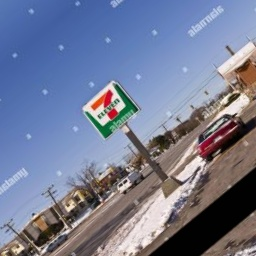
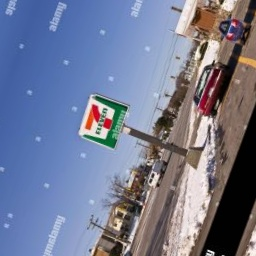
2nd Commit

diff --git a/mock.py b/mock.py
@@ -1,0 +1,119 @@
+import tkinter as tk
+from tkinter import filedialog
+import os
+import subprocess
+from functools import partial
+import cv2
+import albumentations as A
+from tqdm import tqdm
+
+
+def browse_button(input_entry):
+    filename = filedialog.askdirectory()
+    input_entry.delete(0, tk.END)
+    input_entry.insert(0, filename)
+
+
+def augment_images(input_images_dir, input_labels_dir, output_images_dir, output_labels_dir):
+    os.makedirs(output_images_dir, exist_ok=True)
+    os.makedirs(output_labels_dir, exist_ok=True)
+
+    transform = A.Compose([
+        A.Rotate(limit=90, interpolation=cv2.INTER_LINEAR, border_mode=cv2.BORDER_REFLECT, always_apply=True, p=1),
+    ], bbox_params=A.BboxParams(format='yolo', label_fields=['category'], min_visibility=1))
+
+    image_files = [f for f in os.listdir(input_images_dir) if f.endswith(('.jpg', '.jpeg', '.png'))]
+
+    count = 1
+    num_images_to_rotate = 1
+
+    for image_file in tqdm(image_files, desc="Processing Images"):
+        image_path = os.path.join(input_images_dir, image_file)
+        image = cv2.imread(image_path)
+        if image is None:
+            continue
+
+        image = cv2.cvtColor(image, cv2.COLOR_BGR2RGB)
+
+        label_file = os.path.join(input_labels_dir, image_file.replace('.jpg', '.txt'))
+        if not os.path.exists(label_file):
+            continue
+
+        with open(label_file, 'r') as f:
+            yolo_bbox = [float(coord) for coord in f.readline().strip().split()]
+
+        normalized_yolo_bbox = [
+            yolo_bbox[1],
+            yolo_bbox[2],
+            yolo_bbox[3],
+            yolo_bbox[4],
+        ]
+
+        data = {"image": image, "bboxes": [normalized_yolo_bbox], "category": [int(yolo_bbox[0])]}
+
+        for i in range(num_images_to_rotate):
+            transformed = transform(**data)
+
+            augmented_image_path = os.path.join(output_images_dir, f"{count}_augmented_{i}.jpg")
+            cv2.imwrite(augmented_image_path, cv2.cvtColor(transformed["image"], cv2.COLOR_RGB2BGR))
+
+            augmented_label_path = os.path.join(output_labels_dir, f"{count}_augmented_{i}.txt")
+            with open(augmented_label_path, 'w') as f:
+                final_yolo_bbox = [
+                    transformed["bboxes"][0][0],
+                    transformed["bboxes"][0][1],
+                    transformed["bboxes"][0][2],
+                    transformed["bboxes"][0][3],
+                ]
+                f.write(f"{data['category'][0]} {' '.join(map(str, final_yolo_bbox))}")
+
+        count += 1
+
+    print("Augmentation complete.")
+    subprocess.Popen(["python", "ui.py"])
+
+
+def start_augmentation():
+    input_images_dir = input_images_entry.get()
+    input_labels_dir = input_labels_entry.get()
+    output_images_dir = output_images_entry.get()
+    output_labels_dir = output_labels_entry.get()
+
+    augment_images(input_images_dir, input_labels_dir, output_images_dir, output_labels_dir)
+
+
+root = tk.Tk()
+root.title("Image Augmentation")
+
+input_images_label = tk.Label(root, text="Input Images Directory:")
+input_images_label.grid(row=0, column=0, sticky="W")
+input_images_entry = tk.Entry(root, width=50)
+input_images_entry.grid(row=0, column=1, padx=5, pady=5)
+input_images_button = tk.Button(root, text="Browse", command=lambda: browse_button(input_images_entry))
+input_images_button.grid(row=0, column=2)
+
+input_labels_label = tk.Label(root, text="Input Labels Directory:")
+input_labels_label.grid(row=1, column=0, sticky="W")
+input_labels_entry = tk.Entry(root, width=50)
+input_labels_entry.grid(row=1, column=1, padx=5, pady=5)
+input_labels_button = tk.Button(root, text="Browse", command=lambda: browse_button(input_labels_entry))
+input_labels_button.grid(row=1, column=2)
+
+output_images_label = tk.Label(root, text="Output Images Directory:")
+output_images_label.grid(row=2, column=0, sticky="W")
+output_images_entry = tk.Entry(root, width=50)
+output_images_entry.grid(row=2, column=1, padx=5, pady=5)
+output_images_button = tk.Button(root, text="Browse", command=lambda: browse_button(output_images_entry))
+output_images_button.grid(row=2, column=2)
+
+output_labels_label = tk.Label(root, text="Output Labels Directory:")
+output_labels_label.grid(row=3, column=0, sticky="W")
+output_labels_entry = tk.Entry(root, width=50)
+output_labels_entry.grid(row=3, column=1, padx=5, pady=5)
+output_labels_button = tk.Button(root, text="Browse", command=lambda: browse_button(output_labels_entry))
+output_labels_button.grid(row=3, column=2)
+
+start_button = tk.Button(root, text="Start Augmentation", command=start_augmentation)
+start_button.grid(row=4, column=1, pady=10)
+
+root.mainloop()

diff --git a/main.py b/main.py
@@ -3,16 +3,16 @@ import cv2
 import albumentations as A
 from tqdm import tqdm
 
-INPUT_IMAGES_DIR = "D:/project/input/images"
-INPUT_LABELS_DIR = "D:/project/input/labels"
-OUTPUT_IMAGES_DIR = "D:/project/output/images"
-OUTPUT_LABELS_DIR = "D:/project/output/labels"
+INPUT_IMAGES_DIR = "C:/Users/User/Documents/GitHub/New_augmentation/input/images"
+INPUT_LABELS_DIR = "C:/Users/User/Documents/GitHub/New_augmentation/input/labels"
+OUTPUT_IMAGES_DIR = "C:/Users/User/Documents/GitHub/New_augmentation/output/images"
+OUTPUT_LABELS_DIR = "C:/Users/User/Documents/GitHub/New_augmentation/output/labels"
 
 os.makedirs(OUTPUT_IMAGES_DIR, exist_ok=True)
 os.makedirs(OUTPUT_LABELS_DIR, exist_ok=True)
 
 transform = A.Compose([
-    A.Rotate(limit=[1,90], interpolation=cv2.INTER_LINEAR, border_mode=cv2.BORDER_REFLECT, always_apply=True, p=1),
+    A.Rotate(limit=90, interpolation=cv2.INTER_LINEAR, border_mode=cv2.BORDER_REFLECT, always_apply=True, p=1),
 ], bbox_params=A.BboxParams(format='yolo', label_fields=['category'], min_visibility=1))
 
 image_files = [f for f in os.listdir(INPUT_IMAGES_DIR) if f.endswith(('.jpg', '.jpeg', '.png'))]
